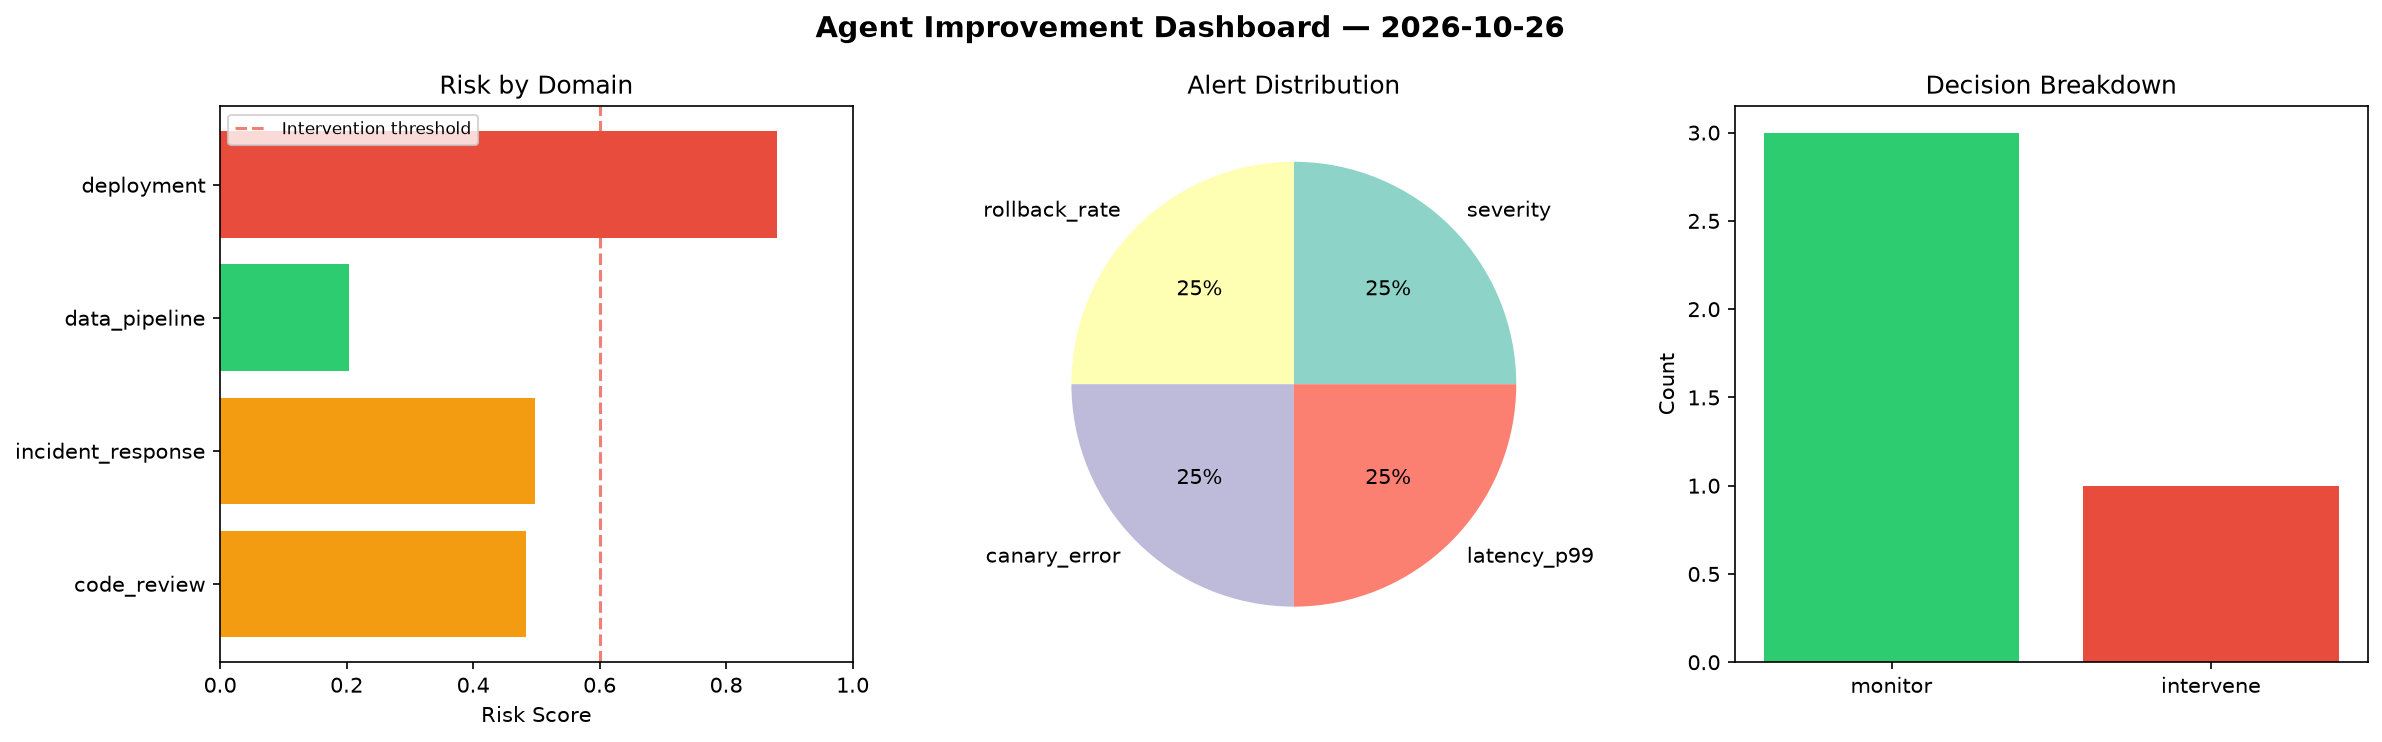
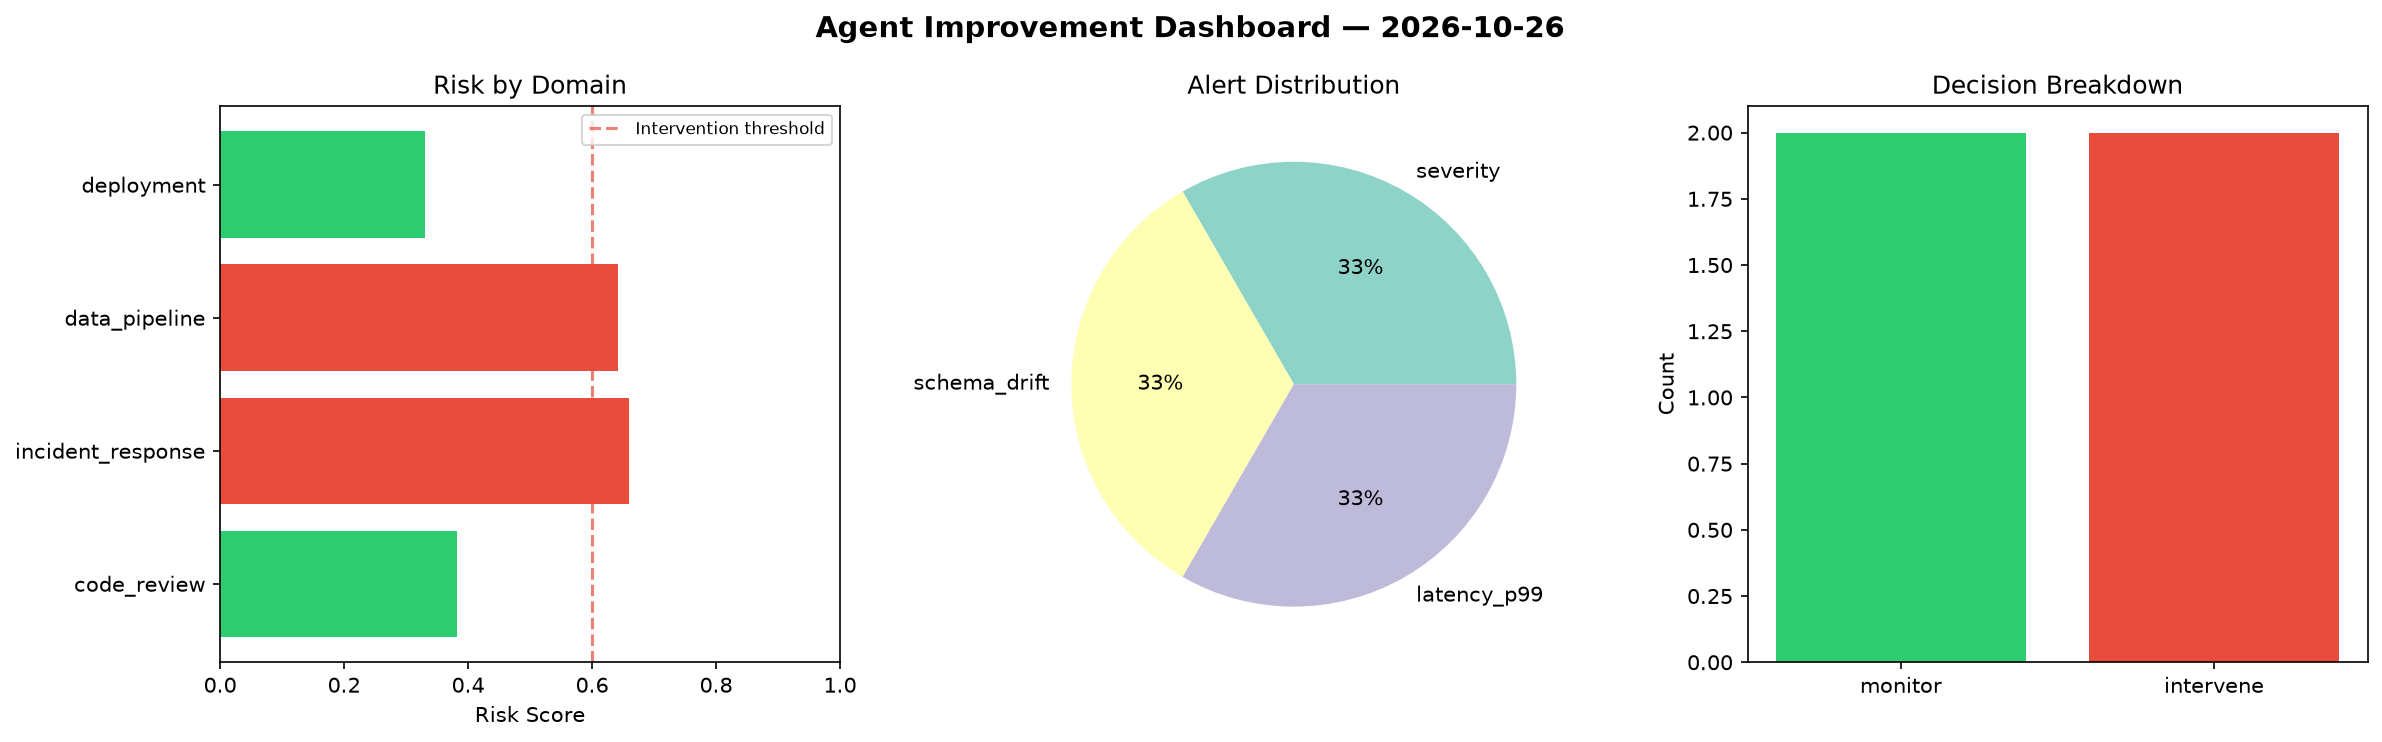
agent-improvement: daily cycle 2026-10-26T15:11

diff --git a/logs/2026-10-26.md b/logs/2026-10-26.md
@@ -1,6 +1,6 @@
 # Agent Improvement Report — 2026-10-26
 
-**Cycle ID:** `7355b624` | **Avg Risk:** 0.5162 | **Interventions:** 1/4
+**Cycle ID:** `9578a544` | **Avg Risk:** 0.5034 | **Interventions:** 2/4
 
 ![Dashboard](2026-10-26_dashboard.png)
 
@@ -10,18 +10,18 @@
 
 | Domain | Risk Score | Decision | Alerts |
 |--------|-----------|----------|--------|
-| code_review | 0.4831 | monitor | none |
-| incident_response | 0.4976 | monitor | severity |
-| data_pipeline | 0.2039 | monitor | none |
-| deployment | 0.8802 | intervene | rollback_rate, canary_error, latency_p99 |
+| code_review | 0.3816 | monitor | none |
+| incident_response | 0.6588 | intervene | severity |
+| data_pipeline | 0.6421 | intervene | schema_drift |
+| deployment | 0.3309 | monitor | latency_p99 |
 
 ## Delta vs Yesterday
 
 | Domain | Today | Yesterday | Change |
 |--------|-------|-----------|--------|
-| code_review | 0.4831 | 0.1567 | 📈 208.3% |
-| incident_response | 0.4976 | 0.5243 | 📉 -5.1% |
-| data_pipeline | 0.2039 | 0.7507 | 📉 -72.8% |
-| deployment | 0.8802 | 0.5617 | 📈 56.7% |
+| code_review | 0.3816 | 0.1567 | 📈 143.5% |
+| incident_response | 0.6588 | 0.5243 | 📈 25.7% |
+| data_pipeline | 0.6421 | 0.7507 | 📉 -14.5% |
+| deployment | 0.3309 | 0.5617 | 📉 -41.1% |
 
-**Refinement:** `{'adjustment': 'tighten_thresholds', 'trend': 'degrading', 'window': 4}`
+**Refinement:** `{'adjustment': 'maintain', 'trend': 'improving', 'window': 4}`
